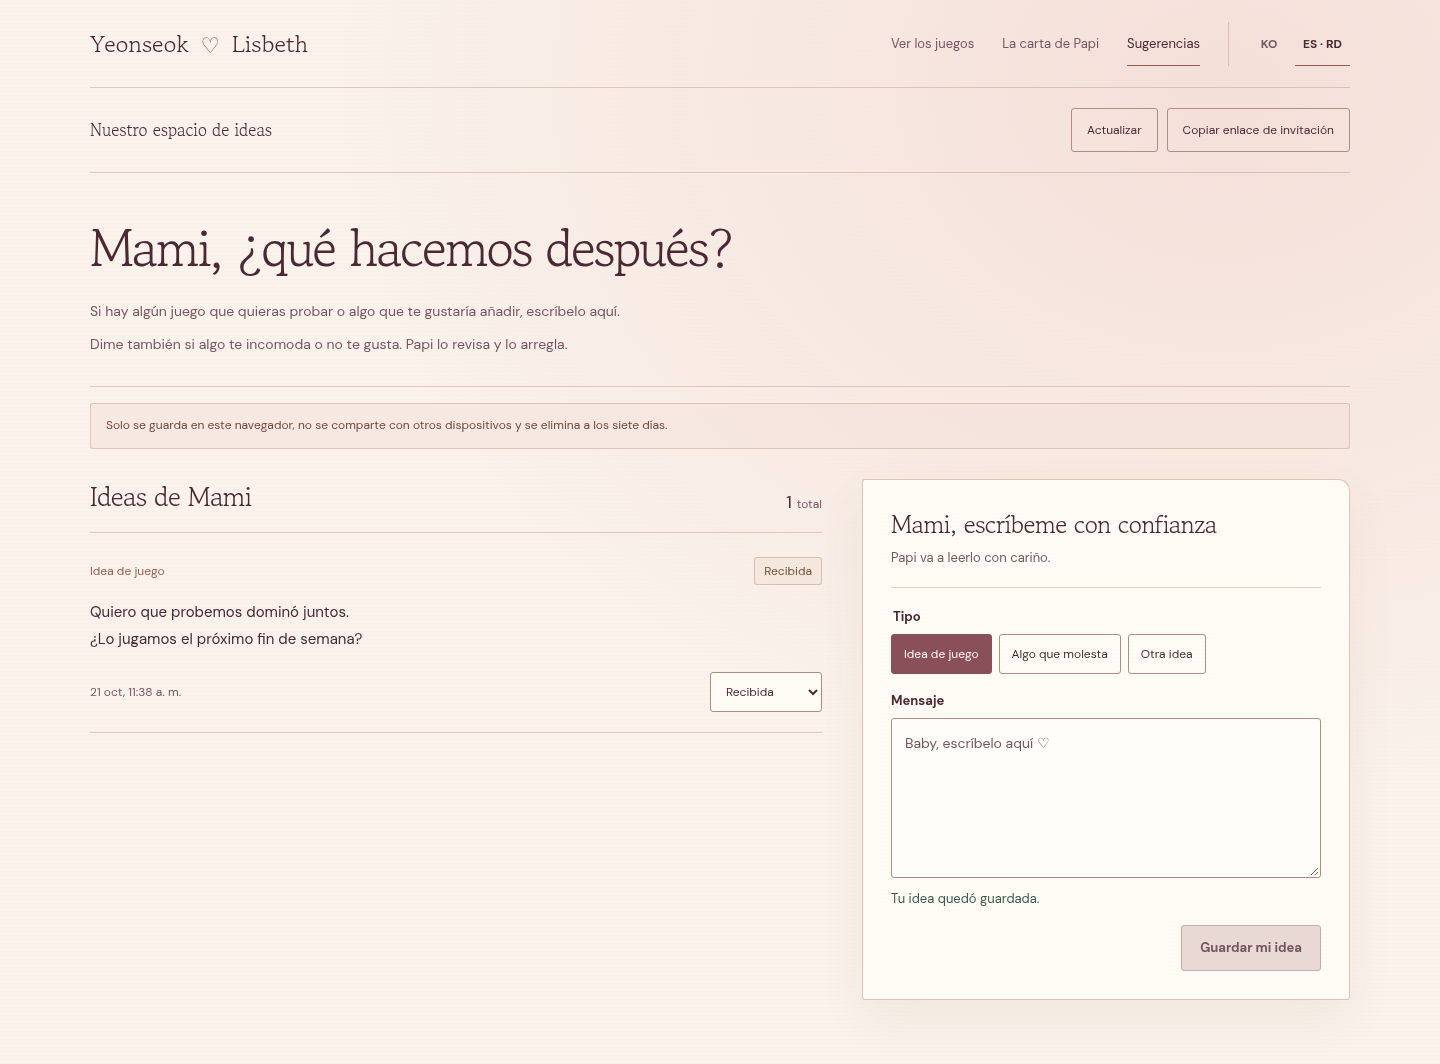
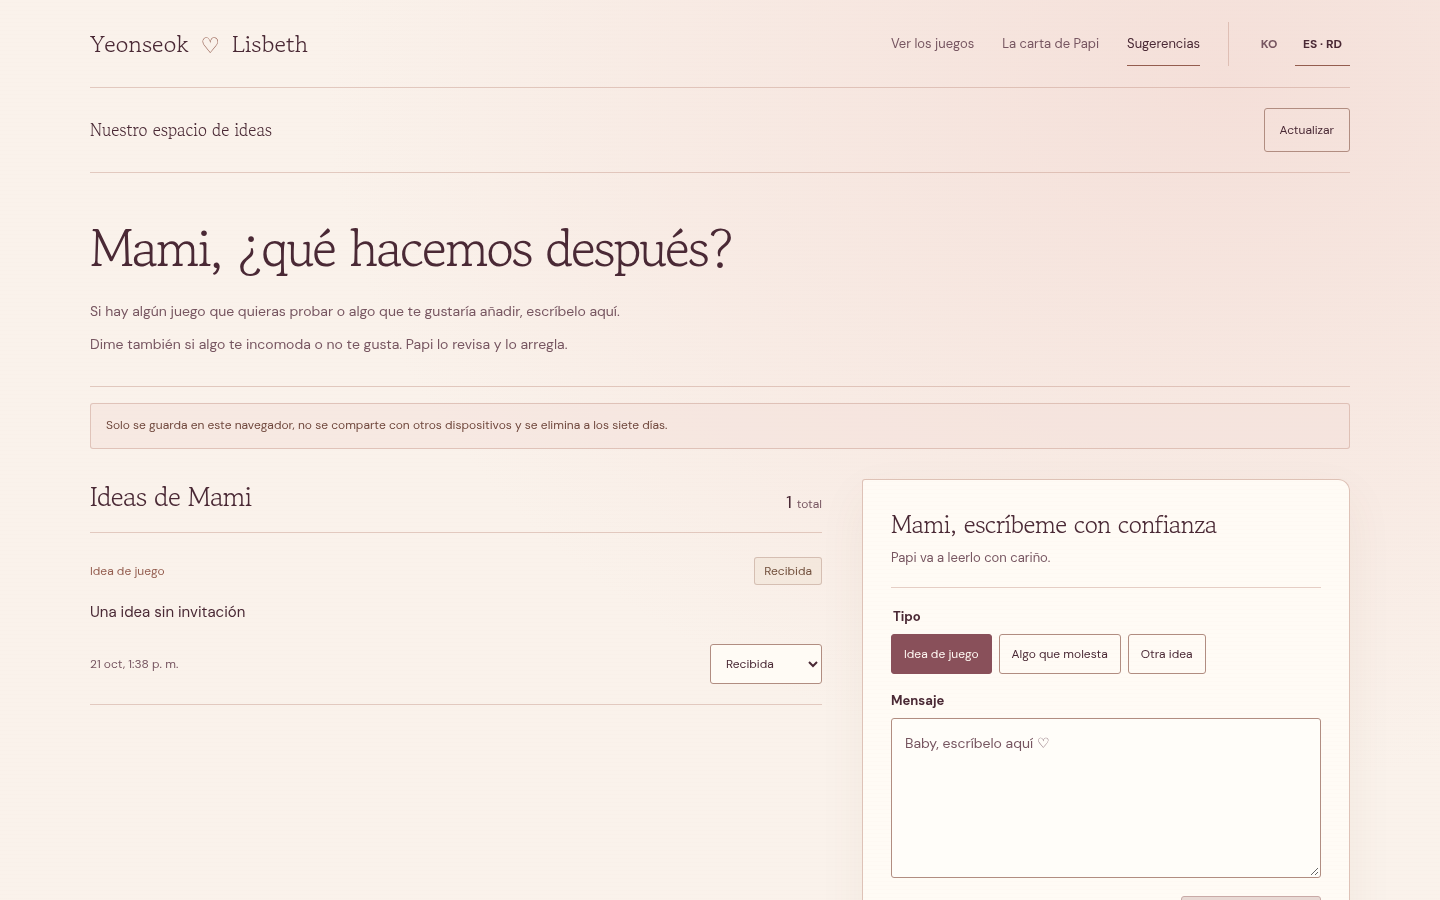
Remove feedback invitation setup and open journal directly

diff --git a/src/app/FeedbackRoute.tsx b/src/app/FeedbackRoute.tsx
@@ -1,4 +1,4 @@
-import { useCallback, useEffect, useRef, useState, type FormEvent } from 'react';
+import { useCallback, useEffect, useRef, useState } from 'react';
 import { feedback, isFeedbackOnline, type FeedbackEntry } from '../core/feedback';
 import type { Language } from '../core/types';
 import { FeedbackPage } from './FeedbackPage';
@@ -8,79 +8,51 @@ const copy = (language: Language, ko: string, es: string) => language === 'ko' ?
 
 export function FeedbackRoute() {
   const [language, setLanguage] = useState<Language>(() => localStorage.getItem('dos-language') === 'es' ? 'es' : 'ko');
-  const [spaceId, setSpaceId] = useState(() => new URLSearchParams(location.search).get('space') || localStorage.getItem('dos-feedback-space') || '');
-  const [joinCode, setJoinCode] = useState('');
+  const [spaceId, setSpaceId] = useState(() => localStorage.getItem('dos-feedback-space') || '');
   const [entries, setEntries] = useState<FeedbackEntry[]>([]);
   const [role, setRole] = useState<'p1' | 'p2' | null>(null);
-  const [loading, setLoading] = useState(Boolean(spaceId));
-  const [working, setWorking] = useState(false);
+  const [loading, setLoading] = useState(true);
   const [error, setError] = useState<string | null>(null);
   const refreshGeneration = useRef(0);
-  const setupPending = useRef(false);
+  const initialization = useRef<Promise<string> | null>(null);
   const es = language === 'es';
 
-  const useSpace = useCallback((id: string) => {
-    refreshGeneration.current += 1;
-    localStorage.setItem('dos-feedback-space', id);
-    history.replaceState(null, '', `/feedback?space=${encodeURIComponent(id)}`);
-    setSpaceId(id);
-    setEntries([]); setRole(null); setError(null);
-    setLoading(true);
-  }, []);
-
   const refresh = useCallback(async () => {
-    if (!spaceId) return;
     const generation = ++refreshGeneration.current;
     const isCurrent = () => refreshGeneration.current === generation;
     try {
-      let seat = await feedback.getRole(spaceId);
-      if (!isCurrent()) return;
-      if (!seat) {
-        seat = await feedback.joinSpace(spaceId);
+      let id = spaceId;
+      if (!id) {
+        // The storage scope is an internal detail, never a setup step for writing.
+        initialization.current ??= feedback.createSpace().then(created => {
+          localStorage.setItem('dos-feedback-space', created);
+          return created;
+        }).catch(reason => { initialization.current = null; throw reason; });
+        id = await initialization.current;
         if (!isCurrent()) return;
+        setSpaceId(id);
       }
-      const items = await feedback.list(spaceId);
+      const seat = await feedback.getRole(id);
+      if (!isCurrent()) return;
+      const items = await feedback.list(id);
       if (!isCurrent()) return;
       setEntries(items); setRole(seat); setError(null);
     } catch {
       if (!isCurrent()) return;
-      setEntries([]); setRole(null);
-      setError(copy(language, '초대 공간을 열지 못했어요. 초대 링크가 맞는지, 온라인 공간이 이미 두 사람으로 찼는지 확인해 주세요.', 'No se pudo abrir el espacio. Revisa el enlace o comprueba si ya se unieron dos personas.'));
+      setError(copy(language, '건의사항을 불러오지 못했어요. 잠시 뒤 다시 시도해 주세요.', 'No se pudieron cargar las sugerencias. Inténtalo de nuevo.'));
     } finally { if (isCurrent()) setLoading(false); }
   }, [spaceId, language]);
 
   useEffect(() => {
     document.documentElement.lang = language === 'es' ? 'es-DO' : 'ko';
     document.title = es ? 'Sugerencias · Yeonseok & Lisbeth' : '건의사항 · Yeonseok & Lisbeth';
+    // Retire old invitation URLs without discarding saved entries.
+    if (location.search) history.replaceState(null, '', '/feedback');
     void refresh();
     const interval = window.setInterval(() => { if (!document.hidden) void refresh(); }, 15000);
     window.addEventListener('focus', refresh);
     return () => { refreshGeneration.current += 1; clearInterval(interval); window.removeEventListener('focus', refresh); };
   }, [refresh, language, es]);
-
-  const createSpace = async () => {
-    if (setupPending.current) return;
-    setupPending.current = true;
-    setWorking(true); setError(null);
-    try { useSpace(await feedback.createSpace()); }
-    catch { setError(copy(language, '비공개 공간을 만들지 못했어요. 잠시 뒤 다시 시도해 주세요.', 'No se pudo crear el espacio. Inténtalo de nuevo.')); }
-    finally { setupPending.current = false; setWorking(false); }
-  };
-
-  const joinSpace = async (event: FormEvent<HTMLFormElement>) => {
-    event.preventDefault(); const id = joinCode.trim(); if (!id) return;
-    if (setupPending.current) return;
-    setupPending.current = true;
-    setWorking(true); setError(null);
-    try { await feedback.joinSpace(id); useSpace(id); }
-    catch { setError(copy(language, '이 초대 공간에 참여하지 못했어요. 코드를 확인하거나 새 초대를 요청해 주세요.', 'No se pudo entrar. Revisa el código o pide que te envíen una invitación nueva.')); }
-    finally { setupPending.current = false; setWorking(false); }
-  };
-
-  const copyInvite = async () => {
-    try { await navigator.clipboard.writeText(`${location.origin}/feedback?space=${encodeURIComponent(spaceId)}`); setError(null); }
-    catch { setError(copy(language, '초대 링크를 복사하지 못했어요. 주소창에서 링크를 복사해 주세요.', 'No se pudo copiar el enlace. Cópialo desde la barra de direcciones.')); }
-  };
 
   return <div className="feedback-route">
     <header className="landing-nav wrap">
@@ -92,23 +64,7 @@ export function FeedbackRoute() {
         <div className="landing-language" role="group" aria-label={es ? 'Idioma' : '언어'}>{(['ko','es'] as const).map(lang => <button key={lang} className={language === lang ? 'active' : ''} aria-pressed={language === lang} onClick={() => { localStorage.setItem('dos-language',lang); setLanguage(lang); }}>{lang === 'ko' ? 'KO' : 'ES · RD'}</button>)}</div>
       </nav>
     </header>
-    {!spaceId ? <main className="wrap feedback-setup">
-      <div className="feedback-setup-copy">
-        <h1>{copy(language, 'Mami, 다음엔 뭐 만들까?', 'Mami, ¿qué hacemos después?')}</h1>
-        <p>{copy(language, '해보고 싶은 게임이나 추가했으면 하는 거 있으면 여기 적어줘.', 'Si hay algún juego que quieras probar o algo que te gustaría añadir, escríbelo aquí.')}</p>
-        <p>{copy(language, '불편한 게 있거나 마음에 안 드는 것도 말해줘. Papi가 보고 고쳐볼게.', 'Dime también si algo te incomoda o no te gusta. Papi lo revisa y lo arregla.')}</p>
-      </div>
-      <section className="feedback-setup-actions" aria-labelledby="feedback-setup-title">
-        <h2 id="feedback-setup-title">{copy(language, '우리의 아이디어 공간', 'Nuestro espacio de ideas')}</h2>
-        <p>{isFeedbackOnline ? copy(language, '둘만의 비공개 공간을 만들고 Mami에게 초대 링크를 보내줘.', 'Crea nuestro espacio privado y envíale la invitación a Mami.') : copy(language, '떠오른 생각을 적고, 나중에 다시 읽어봐요.', 'Anota lo que se te ocurra y vuelve a leerlo cuando quieras.')}</p>
-        {error && <p className="feedback-error" role="alert">{error}</p>}
-        <button className="primary-action" disabled={working} onClick={() => void createSpace()}>{working ? copy(language, '만드는 중…', 'Creando…') : copy(language, '우리 공간 만들기', 'Crear nuestro espacio')}</button>
-        <form className="feedback-join-form" onSubmit={joinSpace}><label htmlFor="feedback-invite-code">{copy(language, '초대 코드로 참여하기', 'Entrar con invitación')}</label><input id="feedback-invite-code" value={joinCode} onChange={event => setJoinCode(event.target.value)} placeholder={copy(language, '초대 코드 붙여넣기', 'Pega el código')} autoComplete="off"/><button className="secondary-action" disabled={working || !joinCode.trim()}>{copy(language, '참여하기', 'Entrar')}</button></form>
-        {!isFeedbackOnline && <p className="feedback-demo-note">{copy(language, '이 브라우저에만 저장돼요. 다른 기기와 공유되지 않고, 7일 뒤 삭제돼요.', 'Solo se guarda en este navegador, no se comparte con otros dispositivos y se elimina a los siete días.')}</p>}
-      </section>
-    </main> : <>
-      <div className="wrap feedback-access-note"><div><b>{isFeedbackOnline ? copy(language, '둘만의 비공개 아이디어 공간', 'Espacio privado de ideas para los dos') : copy(language, '우리의 아이디어 공간', 'Nuestro espacio de ideas')}</b>{isFeedbackOnline && <p>{copy(language, '각 아이디어는 작성한 지 7일이 지나면 삭제돼요.', 'Cada idea se elimina automáticamente siete días después de publicarse.')}</p>}</div><div className="feedback-space-actions"><button className="secondary-action" onClick={() => void refresh()}>{copy(language, '새로고침', 'Actualizar')}</button><button className="secondary-action" onClick={() => void copyInvite()}>{copy(language, '초대 링크 복사', 'Copiar enlace de invitación')}</button></div></div>
-      <FeedbackPage language={language} mode={isFeedbackOnline ? 'online' : 'demo'} entries={entries} loading={loading} error={error} canCreate={!isFeedbackOnline || role === 'p2'} canAcknowledge={!isFeedbackOnline || role === 'p1'} onCreate={async (input,requestId) => { const entry = await feedback.create(spaceId,input,requestId); refreshGeneration.current += 1; setEntries(items => [entry, ...items.filter(item => item.id !== entry.id)]); }} onSetStatus={async (id,status) => { await feedback.updateStatus(spaceId,id,status); refreshGeneration.current += 1; setEntries(items => items.map(item => item.id === id ? { ...item, status } : item)); }}/>
-    </>}
+    <div className="wrap feedback-access-note"><div><b>{copy(language, '우리의 아이디어 공간', 'Nuestro espacio de ideas')}</b></div><button className="secondary-action" onClick={() => void refresh()}>{copy(language, '새로고침', 'Actualizar')}</button></div>
+    <FeedbackPage language={language} mode={isFeedbackOnline ? 'online' : 'demo'} entries={entries} loading={loading} error={error} canCreate={Boolean(spaceId) && (!isFeedbackOnline || role === 'p2')} canAcknowledge={!isFeedbackOnline || role === 'p1'} onCreate={async (input,requestId) => { const entry = await feedback.create(spaceId,input,requestId); refreshGeneration.current += 1; setEntries(items => [entry, ...items.filter(item => item.id !== entry.id)]); }} onSetStatus={async (id,status) => { await feedback.updateStatus(spaceId,id,status); refreshGeneration.current += 1; setEntries(items => items.map(item => item.id === id ? { ...item, status } : item)); }}/>
   </div>;
 }

diff --git a/src/styles/feedback.css b/src/styles/feedback.css
@@ -27,28 +27,16 @@
 .feedback-route .landing-language button.active { background: transparent; color: var(--fb-ink); box-shadow: inset 0 -1px var(--fb-gold); }
 .feedback-page { min-height: calc(100dvh - 88px); padding: 42px 0 64px; color: var(--fb-ink); }
 .feedback-heading { display: flex; align-items: end; justify-content: space-between; gap: 28px; padding-bottom: 28px; border-bottom: 1px solid var(--fb-line); }
-.feedback-heading h1,.feedback-setup h1 { margin: 0 0 18px; color: var(--fb-ink); font: 400 clamp(36px, 3.7vw, 52px)/1.27 var(--serif,Georgia,serif); letter-spacing: -.04em; text-wrap: balance; }
-.feedback-heading p,.feedback-setup p { max-width: 70ch; margin: 0; color: var(--fb-muted); font-size: 14px; line-height: 1.85; text-wrap: pretty; }
-.feedback-heading-copy p + p,.feedback-setup-copy p + p { margin-top: 7px; }
+.feedback-heading h1 { margin: 0 0 18px; color: var(--fb-ink); font: 400 clamp(36px, 3.7vw, 52px)/1.27 var(--serif,Georgia,serif); letter-spacing: -.04em; text-wrap: balance; }
+.feedback-heading p { max-width: 70ch; margin: 0; color: var(--fb-muted); font-size: 14px; line-height: 1.85; text-wrap: pretty; }
+.feedback-heading-copy p + p { margin-top: 7px; }
 .feedback-mode { flex-shrink: 0; margin-bottom: 4px; padding: 9px 0 9px 16px; border-left: 1px solid var(--fb-line); color: var(--fb-gold); font-size: 12px; white-space: nowrap; }
 .feedback-demo-note { margin: 16px 0 0; padding: 12px 15px; border: 1px solid var(--fb-line); border-radius: 3px; background: #f3dfda80; color: #70483d; font-size: 12px; line-height: 1.65; }
 .feedback-retention { max-width: 72ch; margin: 30px auto 0; color: var(--fb-muted); font-size: 12px; line-height: 1.7; text-align: center; }
-.feedback-setup { display: grid; grid-template-columns: minmax(0,1.1fr) minmax(350px,.9fr); align-content: start; gap: clamp(40px,6vw,88px); min-height: calc(100dvh - 88px); padding-block: clamp(64px,8vw,110px) 80px; }
-.feedback-setup-copy { padding-top: 22px; }
-.feedback-setup h1 { max-width: 11em; font-size: clamp(40px,4.3vw,58px); }
-.feedback-setup-actions { padding: 30px; border: 1px solid #c89d8d99; border-radius: 3px 12px 3px 3px; background: var(--fb-paper); box-shadow: 0 18px 48px #754c3710; }
-.feedback-setup-actions h2 { margin: 0 0 12px; font: 400 25px/1.35 var(--serif,Georgia,serif); letter-spacing: -.025em; }
-.feedback-route .feedback-setup .primary-action { min-height: 48px; margin-top: 22px; padding: 0 23px; border: 1px solid #89505a; border-radius: 3px; background: #89505a; color: #fff8f2; box-shadow: none; font-size: 14px; cursor: pointer; }
-.feedback-join-form { display: flex; flex-wrap: wrap; align-items: center; gap: 9px; margin-top: 28px; padding-top: 22px; border-top: 1px solid var(--fb-line); }
-.feedback-join-form label { flex-basis: 100%; margin-bottom: 3px; color: var(--fb-ink); font-size: 13px; font-weight: 600; }
-.feedback-join-form input { flex: 1 1 200px; min-width: 0; height: 46px; padding: 0 13px; border: 1px solid #b18d81; border-radius: 3px; background: #fffdf9; color: var(--fb-ink); font-size: 13px; }
-.feedback-join-form input::placeholder { color: var(--fb-muted); opacity: 1; }
-.feedback-setup-actions .feedback-demo-note { margin-top: 20px; font-size: 12px; line-height: 1.7; }
 .feedback-access-note { display: flex; justify-content: space-between; align-items: center; gap: 18px; padding-block: 20px; border-bottom: 1px solid var(--fb-line); color: var(--fb-ink); }
 .feedback-access-note b { font: 400 17px/1.3 var(--serif,Georgia,serif); }
 .feedback-access-note p { margin: 6px 0 0; color: var(--fb-muted); font-size: 12px; line-height: 1.6; }
-.feedback-space-actions { display: flex; flex: 0 0 auto; gap: 9px; }
-.feedback-space-actions .secondary-action,.feedback-join-form .secondary-action { min-height: 44px; padding: 0 15px; border: 1px solid #b18d81; border-radius: 3px; background: transparent; color: var(--fb-ink); font-size: 12px; font-weight: 500; box-shadow: none; cursor: pointer; }
+.feedback-access-note .secondary-action { min-height: 44px; padding: 0 15px; border: 1px solid #b18d81; border-radius: 3px; background: transparent; color: var(--fb-ink); font-size: 12px; font-weight: 500; box-shadow: none; cursor: pointer; }
 .feedback-layout { display: grid; grid-template-columns: minmax(0,1.2fr) minmax(390px,.8fr); align-items: start; gap: 40px; margin-top: 30px; }
 .feedback-layout-readonly { grid-template-columns: minmax(0,1fr); }
 .feedback-list-section,.feedback-compose { min-width: 0; }
@@ -103,24 +91,19 @@
   .feedback-route .landing-nav a:hover { color: #8d4c5d; }
   .feedback-route .landing-language button:hover { background: #e9d2ce66; }
   .feedback-route .primary-action:hover:not(:disabled),.feedback-submit:hover:not(:disabled) { background: #733e4c; border-color: #733e4c; }
-  .feedback-space-actions .secondary-action:hover:not(:disabled),.feedback-join-form .secondary-action:hover:not(:disabled),.feedback-categories button:hover:not(:disabled):not(.active) { background: #f0ddd7; }
 }
 .feedback-route .primary-action:active:not(:disabled),.feedback-submit:active:not(:disabled) { background: #653542; }
 @media (max-width: 1050px) {
   .feedback-heading { align-items: start; flex-direction: column; gap: 18px; }
   .feedback-layout { grid-template-columns: minmax(0,1fr) minmax(330px,.9fr); gap: 28px; }
   .feedback-layout-readonly { grid-template-columns: minmax(0,1fr); }
-  .feedback-setup { grid-template-columns: minmax(0,1fr) minmax(330px,1fr); gap: 32px; }
 }
 @media (max-width: 820px) {
   .feedback-route .wrap,.feedback-wrap { width: calc(100% - 48px); }
   .feedback-route .landing-nav { flex-wrap: wrap; gap: 6px; padding-block: 15px; }
   .feedback-route .landing-nav nav { flex-wrap: wrap; gap: 16px; }
   .feedback-layout { grid-template-columns: minmax(0,1fr) minmax(290px,.9fr); gap: 22px; }
-  .feedback-compose,.feedback-setup-actions { padding: 22px; }
-  .feedback-setup { grid-template-columns: 1fr; max-width: 620px; padding-top: 40px; }
-  .feedback-setup h1 { max-width: none; }
-  .feedback-setup-copy { padding: 0; }
+  .feedback-compose { padding: 22px; }
 }
 @media (max-width: 650px) {
   .feedback-route .wrap,.feedback-wrap { width: calc(100% - 32px); }
@@ -137,7 +120,6 @@
   .feedback-compose-bottom small { max-width: none; }
   .feedback-submit { width: 100%; }
   .feedback-access-note { align-items: start; flex-direction: column; }
-  .feedback-space-actions { flex-wrap: wrap; }
 }
 @media (prefers-reduced-motion: reduce) {
   .feedback-route *,.feedback-route *::before,.feedback-route *::after { scroll-behavior: auto !important; transition-duration: .01ms !important; }

diff --git a/docs/redesign-20261018/PROCESS-FAILURE-AUDIT-20261021.ko.md b/docs/redesign-20261018/PROCESS-FAILURE-AUDIT-20261021.ko.md
@@ -94,3 +94,8 @@ Method: dual-agent (A: /root/story_critique_a · B: /root/story_critique_b)
 성능 측정은 Linux headless Chromium/ANGLE SwiftShader 소프트웨어 렌더링, DPR1, 브라우저 녹화와 캡처가 동작하는 환경의 main-thread RAF 간격이다. 1,538 표본, 평균 45.273ms, 중앙값 16.7ms, p95 249.9ms, 최대 2316.5ms, 33.4ms 초과 18.86%. 이는 실제 GPU 성능이나 60fps 통과 근거가 아니다. 모바일은 사용자의 지시에 따라 검수에서 제외했다. Hero의 미술 완성도와 전체 게임·공동 서버 검수 완료를 선언하지 않는다.
 
 독립 비평 A는 같은 최종 encoded 영상의 편지→접기→첫 장미→마지막 CTA를 다시 관찰했다. 봉투 크기·왼쪽 취소 버튼·첫 도착 인물 로드의 기존 차단 문제는 재현되지 않았고, 후반부 목적·연속성·표현 각 4/5로 평가했다. 이는 해당 후반부 검수 범위의 결과이며 Hero와 사이트 전체의 4/5를 뜻하지 않는다.
+
+
+### 건의사항의 불필요한 초대 절차 제거
+
+사용자 지적에 따라 초대 코드 입력·참여·링크 복사·공간 생성 setup과 전용 CSS를 제거했다. `/feedback` 첫 진입부터 기존 글 목록과 작성 폼을 연다. 기존 저장 scope/글·API 보안은 유지하고 필요한 저장 scope만 내부 초기화한다. 옛 query는 주소에서 제거하며 임의 초대 코드로 자동 가입하지 않는다. 현재 정적 검수본은 계속 브라우저 로컬 저장이다. KO 1920×1080·ES 1440×900 실제 브라우저에서 첫 진입 작성 가능, 초대 UI 없음, 글 저장과 reload 보존, 오류 0을 확인했다. 관련 테스트 14개 및 production build 통과. 모바일은 제외했다.
